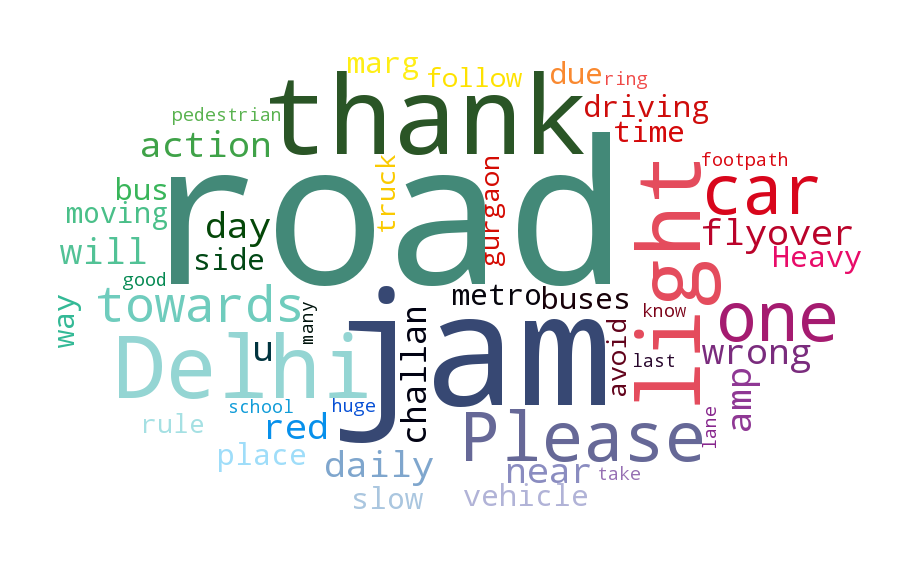
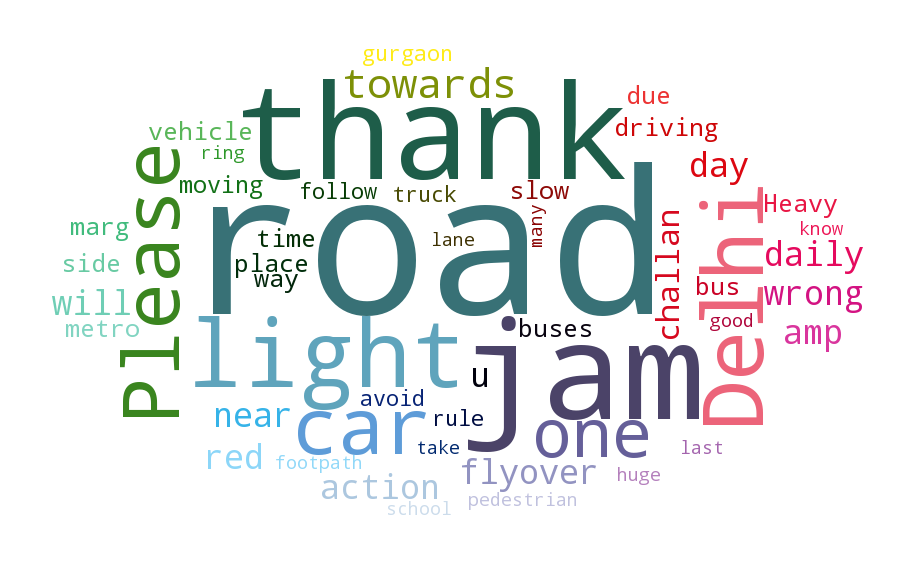
added wordcloud with ajax

Changed region(s): [[0.0614, 0.0895, 0.9518, 0.9246]]

diff --git a/police_dashboard/tool/templates/tool/basic.html b/police_dashboard/tool/templates/tool/basic.html
@@ -92,15 +92,18 @@
                        Word Cloud</a>
                     </h4>
                  </div>
-                 <div id="collapse2_3" class="panel-collapse collapse">
+                 <div id="collapse2_3" class="panel-collapse collapse  in">
                   <div class="panel-body">
                       <div class="container">
                         <div class="row">
+                          <img id="graph3-fb-loader" src="{% static 'tool/img/ajax-loader.gif' %}" style="display:none">
                             <div class="col-xs-6">
+                              <div id="graph3-facebook">
                                 {% autoescape off %}{{ wordcloud_facebook }}{% endautoescape %}
+                              </div>
                             </div>
                             <div class="col-xs-6">
-                                <ul class="list-group" style="width:400px; height:400px; float:right; overflow:hidden; overflow-y:scroll;">
+                                <ul id="cloud-word-facebook" class="list-group" style="width:400px; height:400px; float:right; overflow:hidden; overflow-y:scroll;">
                                   {% autoescape off %}{{ wordcloud_facebook_list }}{% endautoescape %}
                                 </ul>
                             </div>
@@ -168,15 +171,18 @@
                        Word Cloud</a>
                     </h4>
                  </div>
-                 <div id="collapse3" class="panel-collapse collapse">
+                 <div id="collapse3" class="panel-collapse collapse  in">
                   <div class="panel-body">
                     <div class="container">
                         <div class="row">
+                          <img id="graph3-tw-loader" src="{% static 'tool/img/ajax-loader.gif' %}" style="display:none">
                             <div class="col-xs-6">
+                              <div id="graph3-twitter">
                                 {% autoescape off %}{{ wordcloud_twitter }}{% endautoescape %}
+                              </div>
                             </div>
                             <div class="col-xs-6">
-                                <ul class="list-group" style="width:400px; height:400px; float:right; overflow:hidden; overflow-y:scroll;">
+                                <ul id="cloud-word-twitter" class="list-group" style="width:400px; height:400px; float:right; overflow:hidden; overflow-y:scroll;">
                                   {% autoescape off %}{{ wordcloud_twitter_list }}{% endautoescape %}
                                 </ul>
                             </div>

diff --git a/police_dashboard/tool/static/tool/js/basic_jq.js b/police_dashboard/tool/static/tool/js/basic_jq.js
@@ -68,4 +68,32 @@ $(document).ready(function() {
 		    return false;
 		});
 
+		$('.cloud-key-wordcloud_facebook').click(function(){
+		    // var catid;
+		    console.log("clicked")
+		    pf="facebook"
+		    handle = $('#facebook-handle-name').html()
+		    var key = $(this).html();
+		    $('#graph3-fb-loader').show();
+		    $.get('/main/word_cloud/',{handle_name:handle,keyword:key,platform:pf}, function(data){
+		    		   $('#graph3-facebook').html(data.cloud);
+		               $('#graph3-fb-loader').hide();
+		           });
+		    return false;
+		});
+
+		$('.cloud-key-wordcloud_twitter').click(function(){
+		    // var catid;
+		    console.log("clicked")
+		    pf="twitter"
+		    handle = $('#twitter-handle-name').html()
+		    var key = $(this).html();
+		    $('#graph3-tw-loader').show();
+		    $.get('/main/word_cloud/',{handle_name:handle,keyword:key,platform:pf}, function(data){
+		    		   $('#graph3-twitter').html(data.cloud);
+		               $('#graph3-tw-loader').hide();
+		           });
+		    return false;
+		});
+
 });

diff --git a/police_dashboard/tool/static/tool/js/m_graph.js b/police_dashboard/tool/static/tool/js/m_graph.js
@@ -303,7 +303,7 @@ function renderGraph(data,div_name){
           var format = d3.time.format('%d %b %Y'); // Format hover date text to show three letter month and full year
           
           hoverDate.text(format(graph_x)); // scale mouse position to xScale date and format it to show month and year
-          console.log(id_suff)
+          // console.log(id_suff)
           d3.select("#hover-line-"+id_suff) // select hover-line and changing attributes to mouse position
               .attr("x1", mouse_x) 
               .attr("x2", mouse_x)

diff --git a/police_dashboard/tool/functions/graphing.py b/police_dashboard/tool/functions/graphing.py
@@ -21,50 +21,6 @@ def getDashed(content):
 	content=content.replace(replace_str,script_added)
 	return content
 
-def chartLine(series_data,name):
-	name = name
-	chart = lineChart(name=name, x_is_date=True, color_category='category20c', height=300, width=800, x_axis_format="%m/%d/%y",y_axis_format=".0f",use_interactive_guideline=True)
-	# chart.set_containerheader("\n\n<h2>" + type + "</h2>\n\n")
-	kwargs1_1={"color":"#004875"}
-	kwargs1_2={"color":"#0479CC"}
-	kwargs1_3={"color":"#91D9FF"}
-	chart.add_serie(name='Tweets',y=series_data['tweets'][0], x=series_data['tweets'][1],**kwargs1_1)
-	chart.add_serie(name='Retweets',y=series_data['retweets'][0], x=series_data['retweets'][1],**kwargs1_2)
-	chart.add_serie(name='Favourites',y=series_data['favs'][0], x=series_data['favs'][1],**kwargs1_3)
-	chart.buildcontent()
-	# print chart.htmlcontent
-	# output_file.write(chart.htmlcontent)
-	output=chart.htmlcontent
-	output=getDashed(output)
-
-	return output
-
-
-def chartVS(series_data1,series_data2,name):
-	name = name
-	chart = lineChart(name=name, x_is_date=True, color_category='category20c', height=300, width=800, x_axis_format="%m/%d/%y",y_axis_format=".0f",use_interactive_guideline=True)
-	# chart.set_containerheader("\n\n<h2>" + type + "</h2>\n\n")
-	kwargs1_1={"color":"#004875"}
-	kwargs1_2={"color":"#0479CC"}
-	kwargs1_3={"color":"#91D9FF"}
-	chart.add_serie(name='Tweets '+series_data1['name'],y=series_data1['tweets'][0], x=series_data1['tweets'][1],**kwargs1_1)
-	chart.add_serie(name='Retweets '+series_data1['name'],y=series_data1['retweets'][0], x=series_data1['retweets'][1],**kwargs1_2)
-	chart.add_serie(name='Favourites '+series_data1['name'],y=series_data1['favs'][0], x=series_data1['favs'][1],**kwargs1_3)
-
-	kwargs2_1={"color":"#A62F00"}
-	kwargs2_2={"color":"#F2784B"}
-	kwargs2_3={"color":"#EBBC4E"}
-	chart.add_serie(name='Tweets '+series_data2['name'],y=series_data2['tweets'][0], x=series_data2['tweets'][1],**kwargs2_1)
-	chart.add_serie(name='Retweets '+series_data2['name'],y=series_data2['retweets'][0], x=series_data2['retweets'][1],**kwargs2_2)
-	chart.add_serie(name='Favourites '+series_data2['name'],y=series_data2['favs'][0], x=series_data2['favs'][1],**kwargs2_3)
-	
-	chart.buildcontent()
-	# print chart.htmlcontent
-	# output_file.write(chart.htmlcontent)
-	output=chart.htmlcontent
-
-	return output
-
 def chartD3Line(data,name,handle):
 	fb=['posts','likes','comments']
 	tw=['tweets','retweets','favs']
@@ -136,7 +92,16 @@ def wordTree(text_array,name,word,kind="norm"):
 
 	return inject
 
-def wordCloud(text_array,name):
+def wordCloud(text_array,name,keyword=""):
+	new_text_arr=[]
+	if keyword is not "":
+		keyword=keyword.split(" ")[1]
+	for text in text_array:
+		if keyword in text:
+			new_text_arr.append(text)
+
+	text_array=new_text_arr
+
 	cloud_text=""
 	for text in text_array:
 		cloud_text+=text+" "
@@ -183,8 +148,8 @@ def wordCloud(text_array,name):
 		cap=len(words_colours)
 
 	for i in range(1,cap):
-		list_html+='<li class="list-group-item" style="color:'+words_colours[i]['color']+'">'
-		list_html+="#"+str(i)+" "+words_colours[i]['word']+'</li>'
+		list_html+='<li class="list-group-item" ><a class="cloud-key-'+name+'" href="#" style="color:'+words_colours[i]['color']+'">'
+		list_html+="#"+str(i)+" "+words_colours[i]['word']+'</a></li>'
 
 	return (img_tag,list_html)
 

diff --git a/police_dashboard/tool/views.py b/police_dashboard/tool/views.py
@@ -1,9 +1,9 @@
-import os
+import os,json
 from django.shortcuts import render
 from django.http import HttpResponse
 from django.template import RequestContext, loader
 from functions.json_parser import fileParser
-from functions.graphing import parseData,chartLine,chartD3Line,chartVS,chartD3LineVS,wordTree,parseText,wordCloud,getGraphData
+from functions.graphing import parseData,chartD3Line,chartD3LineVS,wordTree,parseText,wordCloud,getGraphData
 from functions.title import getTitle,getComparisons,getKeywords,allTwitterTitles
 
 BASE_DIR = os.path.dirname(os.path.dirname(__file__))
@@ -67,7 +67,7 @@ def dashboard(request,handle):
 	context = RequestContext(request, {
 	    'dashboard_name': handle+" Dashboard",
 	    'pick_account':pick_div,
-	    # 'graph_tweets':d3graph_tw,
+	    'graph_tweets':d3graph_tw,
 	    'graph_facebook':d3graph_fb,
 	    'graph_tree_twitter':tree_tw,
 	    'graph_tree_facebook':tree_fb,
@@ -82,7 +82,7 @@ def dashboard(request,handle):
 	    'wordcloud_twitter':cloud_tw,
 	    'wordcloud_twitter_list':cloud_list_tw,
 	    'wordcloud_facebook':cloud_fb,
-	    'wordcloud_facebook_list':cloud_list_tw
+	    'wordcloud_facebook_list':cloud_list_fb
 	})
 
 	return HttpResponse(template.render(context))
@@ -124,9 +124,26 @@ def victimzn_tree(request):
 		handle = request.GET['handle_name']
 		filename = os.path.join(BASE_DIR, 'tool/data/tweets_'+handle+'.json')
 		data = fileParser(filename)
-		
 		word = request.GET['keyword']
 		text_array=parseText(data)
 		tree=wordTree(text_array=text_array,name="wordtree_"+platform,word=word,kind="ajax")
 
 	return HttpResponse(tree)
+
+def word_cloud(request):
+	context =RequestContext(request)
+	handle=""
+	if request.method == 'GET':
+		platform=request.GET['platform']
+		handle = request.GET['handle_name']
+		filename = os.path.join(BASE_DIR, 'tool/data/tweets_'+handle+'.json')
+		data = fileParser(filename)
+		
+		word = request.GET['keyword']
+		text_array=parseText(data)
+		(cloud,cloud_list)=wordCloud(text_array=text_array,name="wordcloud_"+platform,keyword=word)
+		response_data={}
+		response_data['cloud']=cloud
+		response_data['cloud_list']=cloud_list
+
+	return HttpResponse(json.dumps(response_data), content_type="application/json")

diff --git a/police_dashboard/tool/urls.py b/police_dashboard/tool/urls.py
@@ -7,4 +7,5 @@ urlpatterns = [
     url(r'^dashboard/(?P<handle>[^/]+)/$', views.dashboard,name='dashboard'),
     url(r'^graph_comp/$', views.graph_comp, name='graph comparison'),
     url(r'^victimisation_tree/$', views.victimzn_tree, name='victimisation'),
+    url(r'^word_cloud/$', views.word_cloud, name='word cloud'),
 ]
